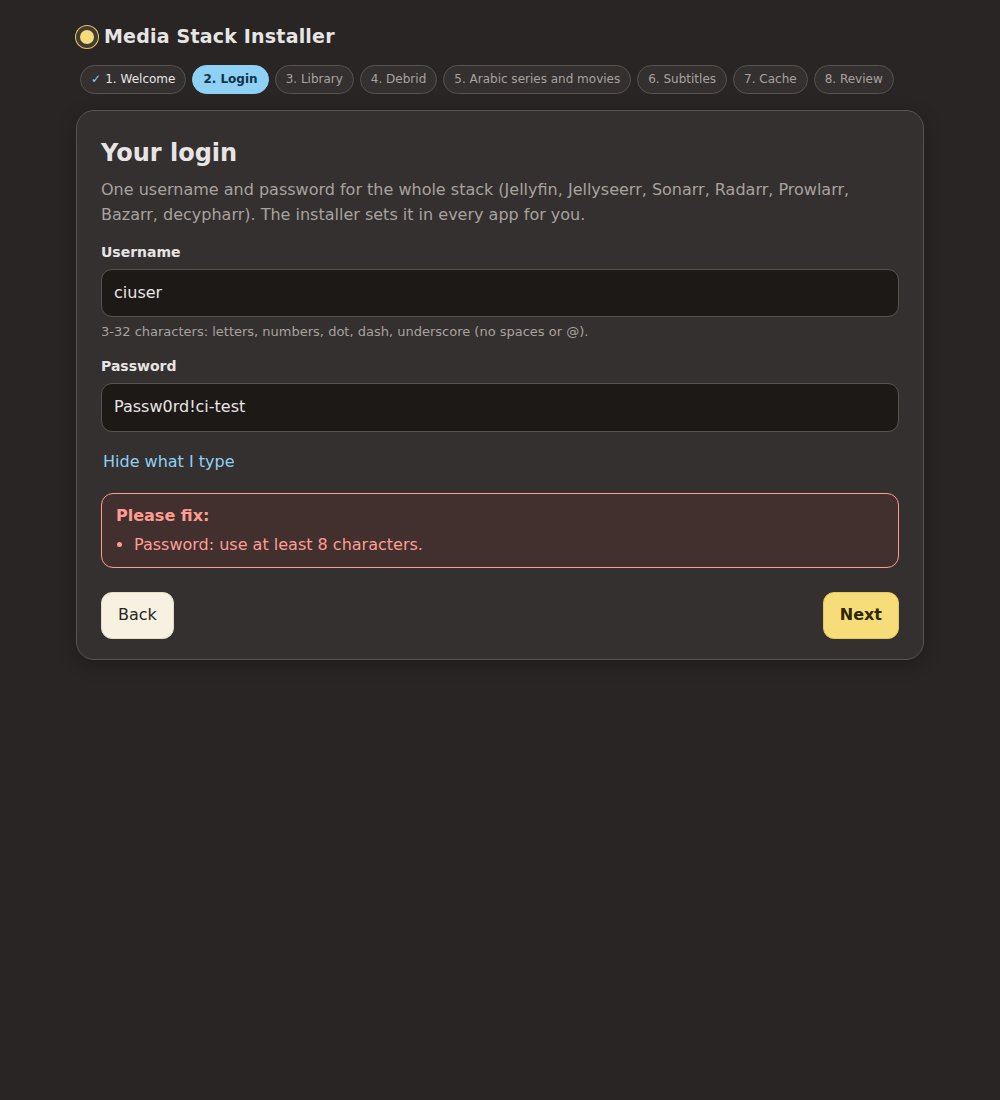
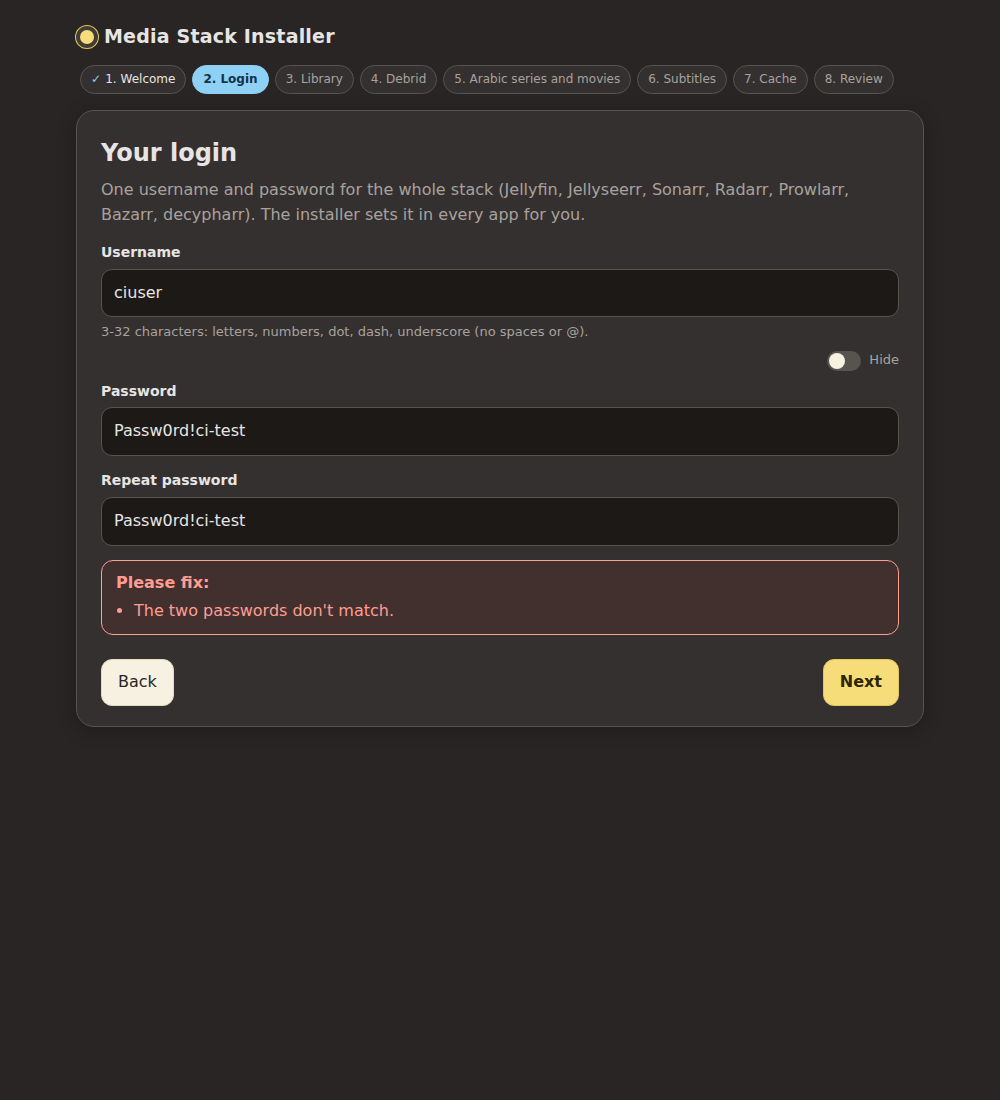
e2e: clean login screenshot

Changed region(s): [[0.093, 0.3091, 0.899, 0.6491], [0.806, 0.3091, 0.899, 0.34]]

diff --git a/tests/e2e_web.py b/tests/e2e_web.py
@@ -80,6 +80,8 @@ def flow(page, srv, url):
     assert pw.get_attribute("type") == "password" and pw2.get_attribute("type") == "password"
     page.locator("label.sw").click()
     assert pw.get_attribute("type") == "text"
+    page.get_by_role("button", name="Back").click()           # re-enter the page so the earlier error box is gone for the picture
+    page.get_by_role("button", name="Start").click()
     shot(page, "login")
     page.get_by_role("button", name="Next").click()
 
